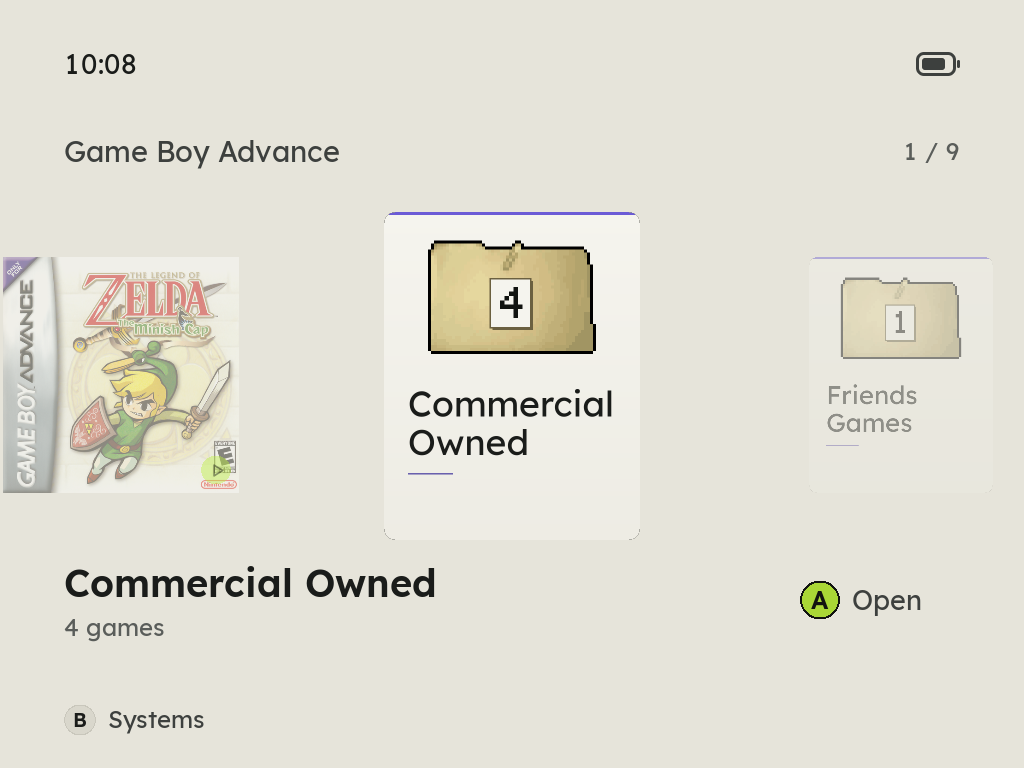
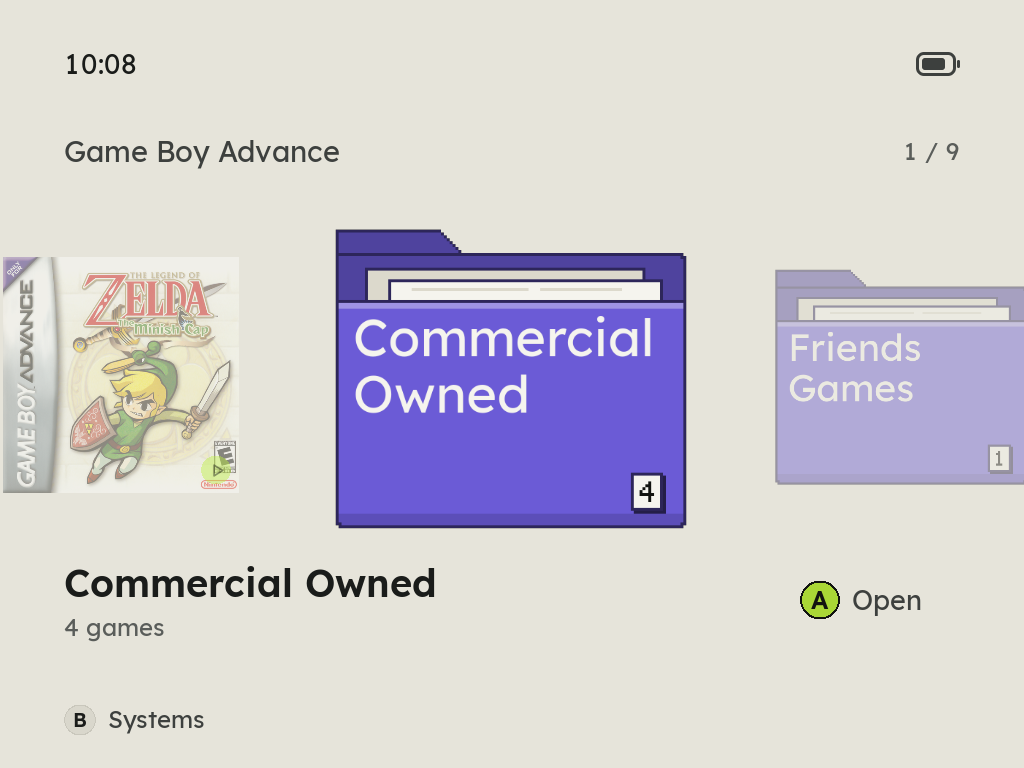
Docs: DESIGN.md 11.39 and 11.15, README, the guide and the site on one-game folders, snaps in the list, the folders' look and moving, with the shots

Changed region(s): [[0.3125, 0.25, 0.6875, 0.6875], [0.75, 0.3438, 1.0, 0.6562]]

diff --git a/site/index.html b/site/index.html
@@ -453,7 +453,7 @@
       <div><h3>Rename a game</h3><p>X on a game, then Rename: type the new name on the keyboard. Its saves, save states, cover, video snap, achievements, favorite and play time follow it, and so does its EmulationStation art. Handy for a name no scrape finds.</p></div>
       <div><h3>Delete a game, and only that game</h3><p>X on a game, then Delete Game: it asks first, then takes the game with its saves, states, cover and video, and the shelf moves on. A file another game still uses stays, and so does a BIOS set like neogeo.zip.</p></div>
       <div><h3>Storage, as a phone shows it</h3><p>MENU &gt; Storage shows what fills the card in one bar, then every system by size and each system's games largest first. Music, Videos and Audiobooks open their albums, films and books, and X sorts any list by size, A to Z or last played. It suggests what can go: art of games no longer there, and save states of games not played for a year.</p></div>
-      <div><h3>Your folders, and a list</h3><p>Sort a system's games into folders on the card, as deep as you like, and the shelf shows them as you made them, each a pixel folder with its count. MENU &gt; View turns any shelf into a list of names, its covers beside it.</p></div>
+      <div><h3>Your folders, and a list</h3><p>Sort a system's games into folders on the card, as deep as you like, or drag them into folders on the File Transfer page, and the shelf shows them as you made them, each a pixel-art folder in the system's color with its count. MENU &gt; View turns any shelf into a list of names, with the cover and video beside it.</p></div>
       <div><h3>A menu in six tabs</h3><p>Games, Display, Sound, Connections, System and About, L1 and R1 going round them. MENU opens where you left it, and every list goes round.</p></div>
       <div><h3>Search and Random Game</h3><p>Find any game by a few letters of its name, or let ZyperOS pick one and start it.</p></div>
       <div><h3>RetroAchievements</h3><p>Sign in on the device, under MENU &gt; Achievements. Achievements download once and then work offline, with each one's badge, a pop-up with Zyper when you unlock one, and progress counts.</p></div>

diff --git a/README.md b/README.md
@@ -149,8 +149,8 @@ Questions, ideas, or want to help build it? Come say hi on [the ZyperOS Discord]
 - **Eight languages:** English, 简体中文, Español, Português (Brasil), Français, Deutsch, 日本語 and Italiano, chosen on the first start or in **MENU > Language**. Every word follows it: the menus, the in-game menu, the charging and low battery screens, the boot screen's line while ZyperOS is copied onto the card, and the File Transfer page. Chinese and Japanese each have a face of their own, so they read as clearly as the rest, and switching languages costs no speed ([below](#languages)).
 - **A first start that asks:** Zyper says hello in each language until you pick yours, teaches each button and shows where it is on the Pixel 2, then asks for the theme, the home screen, the button sounds and the menu music ([below](#the-first-start)).
 - **An empty card that says what to do:** with no games yet, the home shows the two ways to add them, one button each, and Zyper cheers when the first ones arrive.
-- **Your folders, kept:** sort a system's games into folders on the card, "Homebrew", "Rom Hacks", "Translations" inside it, as deep as you like, and the shelf shows them as you made them: the folders first, each a pixel folder with its count of games, then the loose games. A opens a folder, B goes back up. A disc set, a ScummVM game and a port stay one game each, as before. Favorites, Search Games, Random Game, Storage, Delete Game, play time and resume all reach the games inside folders.
-- **Covers or a list:** **MENU > View** on a system's shelf turns its row of covers into a list of names, each with a small card in the system's color, and the focused game's cover and play time beside it. Up and Down step, Left and Right jump a letter. Each system keeps its own choice, as it keeps its sort order.
+- **Your folders, kept:** sort a system's games into folders on the card, "Homebrew", "Rom Hacks", "Translations" inside it, as deep as you like, and the shelf shows them as you made them: the folders first, each a pixel-art folder in the system's color with papers in it and its count of games, then the loose games. A opens a folder, B goes back up. A disc set, a ScummVM game and a port stay one game each, as before. Favorites, Search Games, Random Game, Storage, Delete Game, play time and resume all reach the games inside folders.
+- **Covers or a list:** **MENU > View** on a system's shelf turns its row of covers into a list of names, each with a small card in the system's color, and the focused game's cover and play time beside it. Up and Down step, Left and Right jump a letter, and the focused game's video snap plays in its cover's place, as on the row. Each system keeps its own choice, as it keeps its sort order.
 - **MENU in tabs:** Games, Display, Sound, Connections, System and About, with **L1** and **R1** going round them. MENU opens on the tab you left it on, and every list goes round: Down on the last row goes to the first, and a long list carries on past its end, while a held button stops at the end.
 - **Your look:** **MENU > Display > Theme** picks the accent (ten of them, lime as it ships), a background tone for the light theme (warm, neutral or cool) and one for the dark (black, deep blue or dark grey), rounded or square corners, and Zyper on or off, with both themes shown small as you go. Every color is worked out to stay readable, and the volume bar over a game follows ([below](#light-and-dark)).
 - **Search Games and Random Game:** **MENU > Search Games** finds any game by a few letters of its name, on any system. **Random Game** picks one and starts it, from every system in MENU or from one shelf in that system's menu.
@@ -163,7 +163,7 @@ Questions, ideas, or want to help build it? Come say hi on [the ZyperOS Discord]
 - **Video snaps:** rest on a game for a second, while a bar under its cover fills, and the cover turns into a few seconds of the game itself, from ScreenScraper. A play mark on a cover says its game has one. **MENU > Scraper > Video Snaps** turns them on, per console, and their sound starts muted.
 - **A screensaver of your games:** after a minute with nothing pressed on the shelf, the video snaps of random games play over the whole screen, each with its name and system. **START** boots the one on screen and any other button goes back. **MENU > Screensaver** sets the delay or turns it off. It never starts in a game or while a long job runs, never keeps the handheld on past Auto Off, and shows covers when there are no video snaps (more in the questions below).
 - **Auto Off waits for long jobs:** a Scraper run, a System Update download, PortMaster's install, Storage measuring the card and files moving over File Transfer hold it, and a whole countdown starts when they end.
-- **Wi-Fi File Transfer:** move games, music, audiobooks, videos, saves and covers on and off the card from any browser on your Wi-Fi, behind a PIN, on [a page made for it](#the-file-transfer-page), on a computer or a phone. With no Wi-Fi network around, the handheld makes [its own](#no-wi-fi-network-around), for a phone that scans the QR code on the screen. Or use the USB cable, with no Wi-Fi at all, as USB File Transfer. Open it by name, `http://zyperos.local`, or by its address, and until a browser opens the page the screen checks the connection step by step and says what to do if a step stalls. A transfer keeps going while you go back to the shelf, with a mark in the corner; B asks before it stops one halfway; the page shows the time left, checks the room on the card first, and its Settings page updates ZyperOS over the cable.
+- **Wi-Fi File Transfer:** move games, music, audiobooks, videos, saves and covers on and off the card from any browser on your Wi-Fi, behind a PIN, on [a page made for it](#the-file-transfer-page), on a computer or a phone. With no Wi-Fi network around, the handheld makes [its own](#no-wi-fi-network-around), for a phone that scans the QR code on the screen. Or use the USB cable, with no Wi-Fi at all, as USB File Transfer. Open it by name, `http://zyperos.local`, or by its address, and until a browser opens the page the screen checks the connection step by step and says what to do if a step stalls. A transfer keeps going while you go back to the shelf, with a mark in the corner; B asks before it stops one halfway; the page shows the time left, checks the room on the card first, and its Settings page updates ZyperOS over the cable. Drag files onto a folder to move them there.
 - **USB that only charges until you say so:** plug in a computer and the Pixel 2 asks whether it should charge, open USB File Transfer, or (on development images) bring up SSH. [Developer mode](#developer-mode) brings SSH up on a release image.
 - **System Update:** [over Wi-Fi](#system-update), only what changed, signed, with Roll Back. Without Wi-Fi, the File Transfer page brings it over the USB cable.
 - **Autosave and resume,** plus six save slots for when you want a checkpoint.
@@ -345,7 +345,7 @@ EmulationStation's folder names work too, as they are: `nds`, `gba`, `psx`, `meg
 
 **BIOS files** go loose in `Bios/`. TurboGrafx-CD games need `syscard3.pce` and PlayStation games `scph5501.bin`. Sega CD games need `bios_CD_U.bin`, and a European or Japanese disc `bios_CD_E.bin` or `bios_CD_J.bin` as well. Neo Geo CD games need the Neo Geo CD BIOS in a folder of its own, `Bios/neocd/neocd.bin`. The 32X needs no BIOS. A multi-disc PlayStation game goes in a folder of its own with an `.m3u` listing its discs. Game Boy Advance runs without its BIOS; add `gba_bios.bin` if you want the original boot animation. The Atari 7800 runs without one too; add `7800 BIOS (U).rom` for the Atari logo at start. The Dreamcast, NAOMI and Atomiswave need their BIOS in `Bios/dc/`: `dc_boot.bin`, `naomi.zip` and `awbios.zip`. The 3DO needs `panafz10.bin` and the Lynx `lynxboot.img`; the Atari 5200 and the Pokémon Mini run without theirs (`5200.rom`, `bios.min`). MSX2 games need blueMSX's `Machines` and `Databases` folders in `Bios/`. Saturn games need the Saturn's BIOS, `saturn_bios.bin` (or `sega_101.bin` or `mpr-17933.bin`). ColecoVision games need the ColecoVision's BIOS, `coleco.rom` (or `colecovision.rom` or `os7.u2`): without it the shelf says so under the game. The PSP needs no BIOS.
 
-**Folders inside a system's folder** are folders of games on its shelf, as deep as you like: `Roms/Game Boy Advance/Rom Hacks/Translations/Mother 3.gba` shows as the folder Rom Hacks, with Translations in it. A folder that holds one game's discs (a `.cue` with its tracks, `.chd` discs, an `.m3u`) is that game, as before; a folder of several games' discs is a folder of games, so give a multi-disc game a folder of its own or an `.m3u`. On the ScummVM shelf a folder with a game's files in it is the game, and on the Ports shelf the folders are the ports' own. Saves and save states go by the game's file name, as they always have, so two copies of one game in two folders share them.
+**Folders inside a system's folder** are folders of games on its shelf, as deep as you like: `Roms/Game Boy Advance/Rom Hacks/Translations/Mother 3.gba` shows as the folder Rom Hacks, with Translations in it. A folder is a game's own when it holds that game's set: an `.m3u`, a PSP game's `EBOOT.PBP`, two or more discs of the one game, or a `.cue` (or `.gdi`) with its tracks; or when its one disc image is named as the folder is (`God of War/God of War (USA).iso`). Otherwise it is a folder of games, also with one game in it, so `PSP/Favorites/Ridge Racer (USA).iso` shows as the folder Favorites with Ridge Racer in it. On the ScummVM shelf a folder with a game's files in it is the game, and on the Ports shelf the folders are the ports' own. Saves and save states go by the game's file name, as they always have, so two copies of one game in two folders share them.
 
 **Nintendo DS** runs on DSperate, which ZyperOS ships, with ZyperOS's own in-game menu. A game starts with the top screen alone. While it runs, DSperate gives its threads a core each, as its own frontend does, and the CPU stays at its top clock: a Mario Kart DS race keeps 60 frames a second on the Pixel 2. **L1** and **R1** are the DS's L and R. **L2** shows the other screen. **R2** shows the bottom screen and turns the stylus on: the d-pad moves a cursor and **A** touches. **R2** again turns the stylus off and goes back. The in-game menu also has **Screens** (Single, Stacked or Top Focus), **Swap Screens** and **Stylus**. A DraStic save (`Saves/<game>.dsv`, from ROGUE OS or another system) is taken over the first time a game runs on DSperate. Encrypted ROM dumps need `bios7.bin`, `bios9.bin` and `firmware.bin` in `Bios/`. A DS game reads its language from the firmware, and a `firmware.bin` carries the language of the console it was dumped from, so ZyperOS tells DSperate which language to use with each game and leaves the file alone. **Game Language** in the console's menu, under **Core**, is **Auto** to start with (the language of **MENU > Language** where the DS has it, English where it doesn't, as Português (Brasil) and 简体中文 are not on a DS) or one of English, Español, Français, Deutsch, Italiano, 日本語 and 简体中文 outright; 简体中文 is for the iQue DS's games, which are the only ones that have it. A game resumes where you left it only in the language it was left in: after a change of **Game Language** it starts fresh, in the new one, with a note that says why, and its battery save keeps your progress. A save state you load yourself keeps the language it was saved in, and **Reset** in the in-game menu starts the game again in the row's language.
 
@@ -531,6 +531,7 @@ The page that opens in the browser is the same for Wi-Fi File Transfer, the hand
 - **The card's seven folders:** ROMs, Music, Audiobooks, Videos, BIOS, Saves and Save States. Every folder wears ZyperOS's pixel art: each console's folder its own picture from the home screen, on a tile in its color, and the others a cartridge, a cassette, a memory card and so on. Hidden folders such as `.media` stay out of the lists.
 - **Upload** by dropping files anywhere on the page, into the folder that is open, or onto a folder's row. A dropped folder keeps the folders inside it, and a console's `.media` folder of covers too. **Upload** and **Upload folder** use the file picker instead. The uploads under the folders say how much is left and about how long it takes, and each file shows its progress.
 - **The card's free space** is under the folders. Files that don't fit are caught before anything is sent, and the page offers to send the ones that fit.
+- **Drag to move:** drag a file or a folder onto a folder's row, or onto a folder above in the path at the top, and it moves there on the card. On a phone, hold a row still for a moment to lift it. **Select** in a row's ⋯ (or Shift, Ctrl or Cmd with a click) picks several, and dragging one moves them all. A disc set's folder moves whole and a `.cue` takes its tracks with it; a game's covers, saves and save states stay where they are, since they go by its name. If the folder already has something of that name, nothing moves and the page says so.
 - **Each file and folder has a ⋯** (or a right-click on a computer) for Download, Rename and Delete. Delete always asks first. **New folder** makes one. In an album or a book, **Tidy names** renames its files and the folder to the names MP4 shows, and lists each rename before it makes any.
 - **On a phone** the folders are a row of chips, **Upload** is a button under your thumb, and the rest is behind the ⋯ at the top.
 - **Settings**, at the foot of the folders (behind the ⋯ on a phone), holds the rest:

diff --git a/DESIGN.md b/DESIGN.md
@@ -1558,6 +1558,24 @@ block. *(My picks in the File Transfer lab, 2026-11-05:
   one button that matters (Upload, the yes); as a mark it is **accent-ink**:
   a progress bar, a field's focus, the frame while a file is dragged over.
 
+- **Moving** (2026-11-13: "we should be able to drag files around to
+  organize them"): a row dragged onto a folder's row, or onto a crumb of a
+  folder above, moves there on the card (`/api/move`). A mouse lifts it once
+  it has gone 6 px; a finger once held still 450 ms, so a swipe still
+  scrolls. What is lifted fades to 45% and a chip in **accent** with
+  **on-accent** words follows the pointer: its name, or "3 items"; a row or
+  crumb that takes it wears the drop's **raised** fill and **accent-ink**
+  ring, as a file dropped from the computer does. **Select** in a row's ⋯,
+  or Shift, Ctrl or Cmd with a press, picks rows (a **raised** fill and an
+  **accent-ink** bar at the left), and one of them dragged takes the others.
+  A loose `.cue`, `.gdi`, `.toc` or `.m3u` takes the files it names beside
+  it, and the files kept by its stem (src/sheet.h); a folder goes whole. A
+  move stays in its card folder (ROMs, Music...), and a folder moves only
+  where a delete would take it whole (xfer_delete_rule): a console's own
+  folder, or one in BIOS or Saves, stays where the shelf and the cores look.
+  A name already in the folder refuses the whole move, and the toast says
+  which ("Contra.nes is already in Hacks").
+
 ### 11.16 Hotspot screen
 Wi-Fi File Transfer when the handheld is its own network (src/hotspot.h): a
 screen of its own on the **ground**, not a panel over the shelf. It opens and
@@ -2921,9 +2939,15 @@ left out, as an empty system is, and is one line in the log's left-out
 names.
 
 A folder that **is** a game stays one game: on a shelf that takes discs, a
-folder whose disc images are one game's (their names the same game's,
-"Disc 2" and "Track 01" aside, or an `.m3u` with them), launched by its
-best image as before, and a Dreamcast `.gdi` set by its sheet; on
+folder holding the game's set - an `.m3u`, a PSP game's `EBOOT.PBP`, two or
+more discs of the one game (their names the same game's, "Disc 2" and
+"Track 01" aside), or a sheet with its tracks beside it - or one disc image
+named as the folder is ("God of War/God of War (USA).iso", by the same
+cleaned name), launched by its best image as before, and a Dreamcast
+`.gdi` set by its sheet. A folder with one image named otherwise is a
+folder of games with one game in it (2026-11-13: "i created a folder in PSP
+with one game in it, when i clicked to open it it went straight to the
+game"); on
 ScummVM's, a folder with a file in it (a folder of game folders is a
 folder of games); on Ports', every folder is a port's own and is never
 looked into. A folder of several games' discs is a folder of games, each
@@ -2941,17 +2965,28 @@ px2-open, the Scraper, the saved library and the place a start comes back
 to, folder and all. Saves and states go by the game's file name, as they
 always have.
 
-**A folder's card** (ui_make_folder_card): the generated card's slab and
-band in the system's color, and in place of its letter the pixel FOLDER
-still the home and Storage draw, at three units a pixel, its top at -28
-on the 512 x 656 card. On the folder's front a paper label (`#f5f4ee`, its
-edge `#6b6040` and a pixel's shadow down and right) holds the count of
-games in pixel digits 5 x 7, three sprite pixels a digit pixel (two from
-four digits), in **ink**: part of the picture, the same in both themes, as
-the folder's manila is. The folder's name under it in the card's title
-face at y 356, its rule under it. Under the row the name is the title and
-the line under it "12 games" (shelf.games); A's hint is **Open**
-(games.open), and in a folder B's is **Back** (games.back).
+**A folder's card** (ui_make_folder_card, src/folderart.h): the folder
+itself in pixel art in the system's color, on no slab: a folder on the
+shelf is a folder, not a card with a folder on it. Drawn on a grid of 128 x
+112 cells and scaled four times whole (nearest), so a cell is 4 units on
+the 512 x 448 card and about 2 panel pixels on the focused cover: its back
+with a tab at its top left (the color at 74%), two sheets of paper standing
+out of it (`#dcd9cc` and `#f5f4ee`, a line of writing on the front one),
+then its front (the color itself), each in a 1-cell edge of the color at
+42%, the front's top edge lit (the color 35% of the way to white) and its
+foot shaded (86%), its corners a cell in as a pixel artist rounds them. On
+the front's foot at the right a paper label (`#f5f4ee` in the edge color,
+its shadow a cell down and right) holds the count of games in pixel digits
+5 x 7 in **ink**: part of the picture, the same in both themes, as the
+folder's color is. The folder's name on its front in the card's title face
+from x 40, y 144, in **ink** on a light color and paper on a dark one. A
+system with no color has its folders in its marks' **text-dim**. Under the
+row the name is the title and the line under it "12 games" (shelf.games);
+A's hint is **Open** (games.open), and in a folder B's is **Back**
+(games.back). *(2026-11-13: "can the folder actually look like a folder in
+the system? maybe a pixel art folder". I picked the folder with papers of
+three looks drawn: a plain folder, this, and the home's manila folder
+dyed.)*
 
 **The list** (MENU > View > List, src/gamelist.h). A system's menu has
 **View** under Sort By: **Covers**, the row as it always was, or **List**.
@@ -2976,8 +3011,9 @@ the middle:
   the system's mark color (ui_sys_mark) - the generated card, small,
   drawn rather than loaded, so a list of a thousand games costs no art
   reads and no textures, and a 512-unit cover is never squeezed to 40
-  units; a folder's, the pixel folder at half its size, its count at the
-  row's end (x 568) in **chrome**. A favorite has the heart at the row's
+  units; a folder's, the card's folder drawn small (32 x 28 cells, two
+  units a cell, no label), its count at the row's end (x 568) in
+  **chrome**. A favorite has the heart at the row's
   end, not on Favorites.
 - The focused entry on the right: its card or box art whole in a box 320
   x 320 from x 640, y 200; its facts under it from cap y 552, 32 apart, in
@@ -2985,7 +3021,12 @@ the middle:
   or a folder's "12 games"); A's hint at cap y 664.
 - Up and Down step, Left and Right jump a letter, L1 and R1 a page: the
   row turned, as the cover row's d-pad turns with it. It comes round past
-  its ends: a shelf, not a menu (11.3). No video snap plays in the list.
+  its ends: a shelf, not a menu (11.3).
+- The focused game's video snap plays in its cover's place on the panel,
+  as on the cover row (11.19): the same wait, its bar under the cover, the
+  same turn from the cover to the video in a frame that grows from one to
+  the other, and the play mark on a cover that has one. *(2026-11-13: "the
+  list mode should also play the video preview".)*
 
 *(2026-11-12: I wanted my folders in a system kept on the shelf, with
 their own look in the pixel style, and a list to switch to from MENU. Host

diff --git a/docs/guide.md b/docs/guide.md
@@ -379,12 +379,15 @@ Arcade shelf or a library of hundreds of games reads better as a list.
 
 **Folders of games.** A folder inside a system's folder on the card is a
 folder on its shelf, as deep as you like: the folders come first, A to Z,
-each a pixel folder with how many games it holds, then the games loose in
+each a pixel-art folder in the system's color with how many games it
+holds, then the games loose in
 it, in the shelf's Sort By order. A opens a folder and B goes back up one,
-onto the folder you left. A folder that is one game's discs (a `.cue` and
-its tracks, a game's `.chd` discs, an `.m3u` with them) stays that game, as
-does a ScummVM game's folder; a folder of several games' discs is a folder
-of games. The Ports shelf never looks into its folders: they are the ports'
+onto the folder you left. A folder is one game when it holds that game's
+set: an `.m3u`, a PSP game's `EBOOT.PBP`, two or more discs of the one game,
+or a `.cue` (or `.gdi`) with its tracks; or when its one disc image is named
+as the folder is. A ScummVM game's folder is one game too. Any other folder
+is a folder of games, also with one game in it. In the list (MENU > View >
+List) the focused game's video snap plays where its cover is. The Ports shelf never looks into its folders: they are the ports'
 own. Favorites, Search Games, Random Game, Storage, Delete Game and Play
 Time all find the games in folders, and after a game the shelf comes back
 in the folder it was in.
